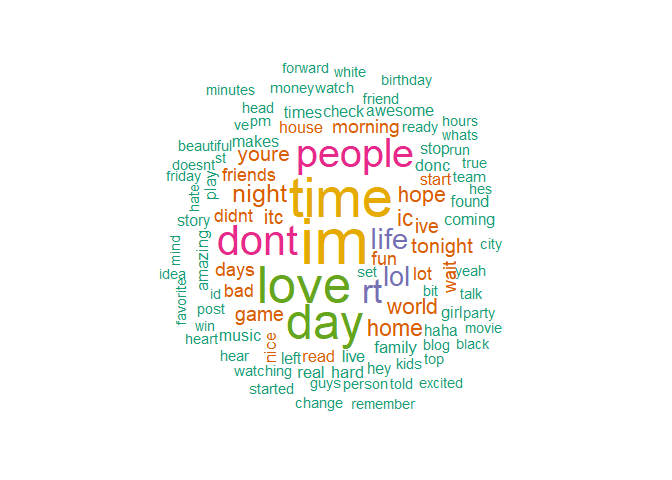
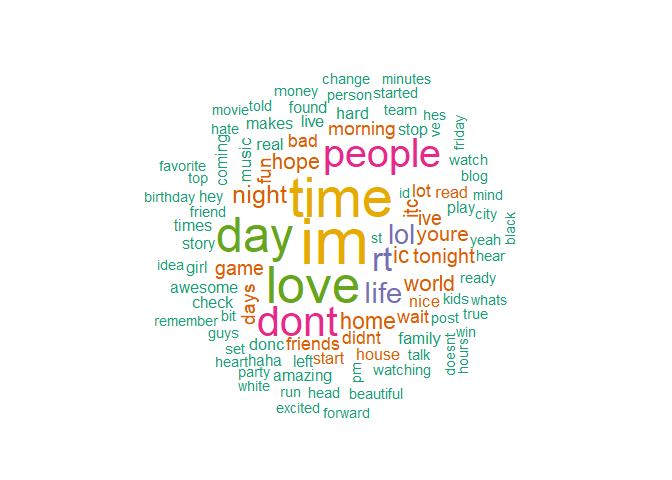
Merge to master

Changed region(s): [[0.2188, 0.125, 0.7812, 0.875]]

diff --git a/02_Task_Script.md b/02_Task_Script.md
@@ -1,7 +1,7 @@
 Task 2: Exploratory Data Analysis
 ================
 Mark Blackmore
-2017-10-18
+2017-10-19
 
 1. Introduction
 ---------------
@@ -130,7 +130,7 @@ saveRDS(tidy_repo, "./data/final/en_US/tidy_repo.rds")
 
 ``` r
 freq <- tidy_repo %>%
-  #mutate(word = str_extract(word, "[a-z']+")) %>%
+  mutate(word = str_extract(word, "[a-z']+")) %>%
   count(source, word) %>%
   group_by(source) %>%
   mutate(proportion = n / sum(n)) %>%
@@ -255,7 +255,7 @@ end <- Sys.time()
 (run_time <- end - start)
 ```
 
-    ## Time difference of 7.583297 mins
+    ## Time difference of 5.425708 mins
 
 ``` r
 ################
